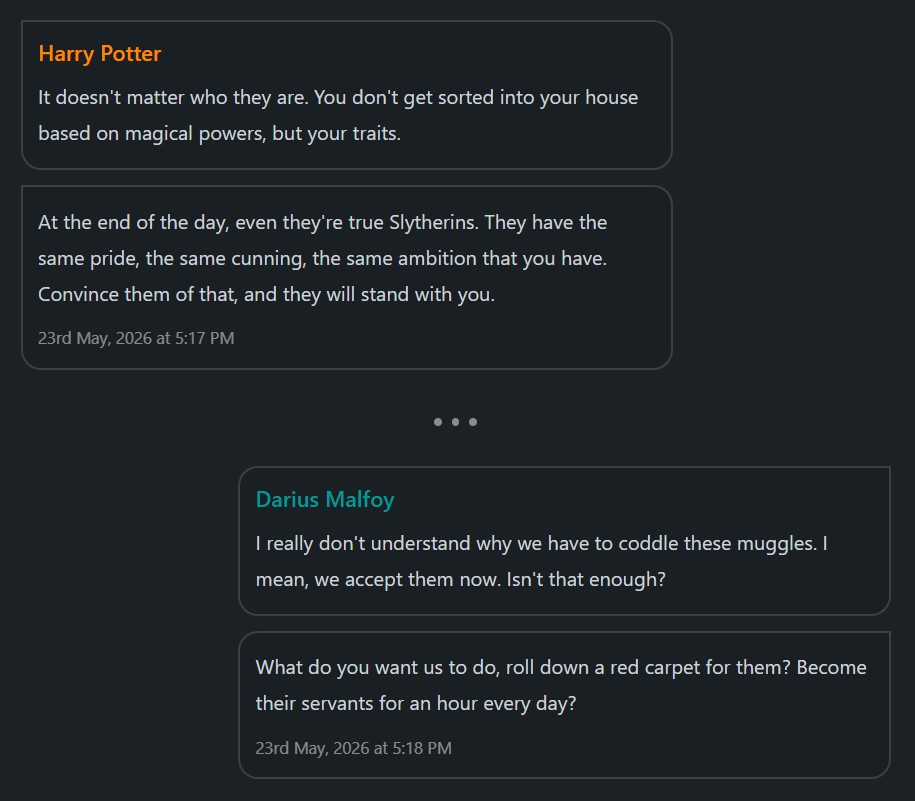
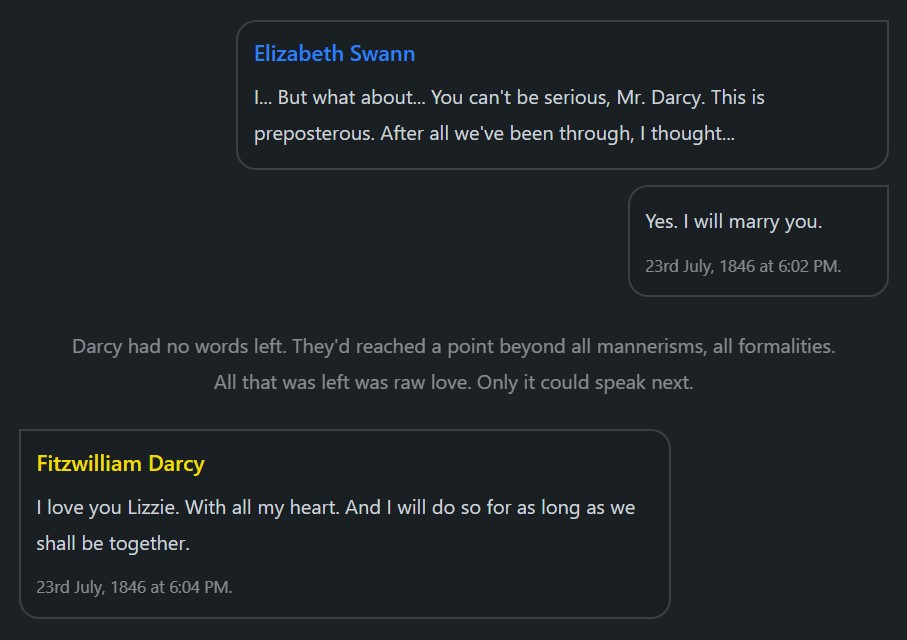
Updated README.md to match new preview.

diff --git a/README.md b/README.md
@@ -59,13 +59,12 @@ The below example portrays how both of these work in tandem.
 ~~~
 ```chat
 {header=h3}
-[Darius Malfoy=teal, Harry Potter=orange]
+[Elizabeth Bennett=blue, Fitzwilliam Darcy=yellow]
 
-< Harry Potter | It doesn't matter who they are. You don't get sorted into your house based on magical powers, but your traits.
-< | At the end of the day, even they're true Slytherins. They have the same pride, the same cunning, the same ambition that you have. Convince them of that, and they will stand with you. | 23rd May, 2026 at 5:17 PM
-...
-> Darius Malfoy | I really don't understand why we have to coddle these muggles. I mean, we accept them now. Isn't that enough?
-> | What do you want us to do, roll down a red carpet for them? Become their servants for an hour every day? | 23rd May, 2026 at 5:18 PM
+> Elizabeth Swann | I... But what about... You can't be serious, Mr. Darcy. This is preposterous. After all we've been through, I thought...
+> | Yes. I will marry you. | 23rd July, 1846 at 6:02 PM.
+# Darcy had no words left. They'd reached a point beyond all mannerisms, all formalities. All that was left was raw love. Only it could speak next.
+< Fitzwilliam Darcy | I love you Lizzie. With all my heart. And I will do so for as long as we shall be together. | 23rd July, 1846 at 6:04 PM.
 ```
 ~~~
 
